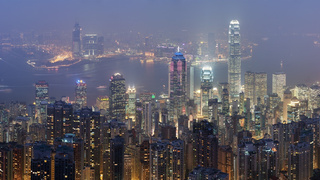
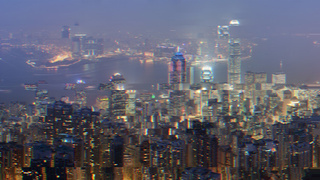
Preserve halftone tone coverage and capture gallery event frames

diff --git a/crates/wallpaper/src/sources/stack/effects_real.rs b/crates/wallpaper/src/sources/stack/effects_real.rs
@@ -353,6 +353,56 @@ fn params_as_studio_writes_them_change_the_render() {
     assert!(noir < teal * 0.5, "noir chroma {noir:.3} vs default {teal:.3}");
 }
 
+/// Tonal coverage must follow the input, including a low-key photo and preceding effects.
+#[test]
+fn halftone_preserves_dark_and_busy_input_tones() {
+    com();
+    let gpu = Gpu::headless().expect("a DX12 GPU");
+    let size = (960, 540);
+    let print = layer("halftone", Value::Null);
+    for (name, under) in [
+        ("city", String::new()),
+        (
+            "dark",
+            layer("color", serde_json::json!({"exposure": -2.0})),
+        ),
+        ("fog", layer("fog", Value::Null)),
+        ("light-leaks", layer("light-leaks", Value::Null)),
+    ] {
+        let base = frame(&gpu, &mut photo_stack(&gpu, &under), size);
+        let layers = if under.is_empty() {
+            print.clone()
+        } else {
+            format!("{under},{print}")
+        };
+        let out = frame(&gpu, &mut photo_stack(&gpu, &layers), size);
+        let s = stats(&out, &base, size);
+        let input = mean(&lumas(&base));
+        eprintln!(
+            "halftone {name}: input {input:.3}, output {:.3}, correlation {:.3}",
+            s.mean, s.correlation
+        );
+        if let Some(dir) = std::env::var_os("GLAZE_ENGINE_EVIDENCE").map(PathBuf::from) {
+            std::fs::create_dir_all(&dir).unwrap();
+            crate::snapshot::save_jpeg(
+                &gpu,
+                size,
+                &base,
+                &dir.join(format!("halftone-{name}-input.jpg")),
+            )
+            .unwrap();
+            crate::snapshot::save_jpeg(&gpu, size, &out, &dir.join(format!("halftone-{name}.jpg")))
+                .unwrap();
+        }
+        assert!(
+            (s.mean - input).abs() < 0.025,
+            "{name}: paper replaced the tone range: {input:.3} -> {:.3}",
+            s.mean
+        );
+        assert!(s.correlation > 0.85, "{name}: print lost the image: {s:?}");
+    }
+}
+
 fn theme_stack(gpu: &Gpu, dir: &Path, layers: Value) -> StackSource {
     let json = serde_json::json!({"name":"base test", "wallpaper":{"kind":"stack",
         "base":{"kind":"theme", "theme":dir}, "layers":layers}});
@@ -500,6 +550,30 @@ fn video_base_has_pixels_before_the_first_update() {
         [0.0; 2],
     );
     assert!(mean(&lumas(&pixels)) > 0.02);
+}
+
+#[test]
+fn gallery_event_times_catch_lightning_and_glitch() {
+    com();
+    let gpu = Gpu::headless().expect("a DX12 GPU");
+    let recipes: Value = serde_json::from_str(
+        &std::fs::read_to_string(repo().join("effects/tools/gallery.json")).unwrap(),
+    )
+    .unwrap();
+    let size = (960, 540);
+    let base = frame(&gpu, &mut photo_stack(&gpu, ""), size);
+    for id in ["lightning", "glitch"] {
+        let recipe = &recipes["effects"][id];
+        let time = Duration::from_secs_f64(recipe["time"].as_f64().expect("pinned event time"));
+        let mut source = photo_stack(&gpu, &layer(id, recipe["params"].clone()));
+        let out = stack_preview::render(&gpu, &mut source, size, time, 1, [0.0; 2]);
+        let s = stats(&out, &base, size);
+        eprintln!("gallery {id}: {s:?}");
+        assert!(
+            s.change > 0.003 && s.touched > 0.03,
+            "{id} missed its event: {s:?}"
+        );
+    }
 }
 
 /// Renders the gallery jobs `effects/tools/render_gallery.py` prepared: each folder of

diff --git a/effects/tools/render_gallery.py b/effects/tools/render_gallery.py
@@ -74,6 +74,7 @@ def main():
     parser.add_argument('--frames', type=Path, default=Path('C:/glaze-targets/effects-sheet/gallery-v2'))
     parser.add_argument('--only', default='')
     parser.add_argument('--grid-only', action='store_true')
+    parser.add_argument('--release', action='store_true', help='Use the release engine test binary')
     args = parser.parse_args()
     config = json.loads((ROOT / 'effects/tools/gallery.json').read_text())
     manifests = sorted((json.loads(p.read_text()) for p in (ROOT / 'effects').glob('*/effect.json')),
@@ -114,7 +115,7 @@ def main():
         (folder / 'job.json').write_text(json.dumps(job, indent=2) + '\n')
     if chosen:
         env = dict(os.environ, GLAZE_GALLERY=str(args.out), CARGO_TARGET_DIR=args.target_dir)
-        subprocess.run(['cargo', 'test', '-p', 'glaze-wallpaper', '--bins', 'gallery_renders', '--',
+        subprocess.run(['cargo', 'test', *(['--release'] if args.release else []), '-p', 'glaze-wallpaper', '--bins', 'gallery_renders', '--',
                         '--ignored', '--test-threads=1', '--nocapture'], cwd=ROOT, env=env, check=True)
     for manifest in chosen:
         effect_id = manifest['id']

diff --git a/docs/wallpaper-builder.md b/docs/wallpaper-builder.md
@@ -155,8 +155,9 @@ preview and the desktop use):
 - Size things in 1080p units (`paper.resolution.y / 1080`, or `uv`), never in raw pixels, so an
   effect looks the same on a 1080p and a 1440p screen. Keep a whole-pixel pitch for patterns
   that would otherwise alias (scanlines, phosphor masks).
-- Tone curves must not assume a bright photo: a fixed luma threshold turns a low-key picture
-  into a flat field. Adapt to the input (e.g. `halftone` levels from a 3x3 sample of `src`).
+- Tone curves must preserve low-key pictures too. Halftone derives ink coverage from each
+  cell's input brightness and the chosen ink/paper brightness, including joined dots in shadows;
+  stretching a dark photo's range or capping dot coverage floods it with paper.
 - Defaults must visibly change a photo: adding an effect that does nothing reads as broken.
 - Studio writes `params` as JSON: a color as `"#rrggbb"`, a bool as `true`/`false`, an enum as
   its option name (an index also works).
